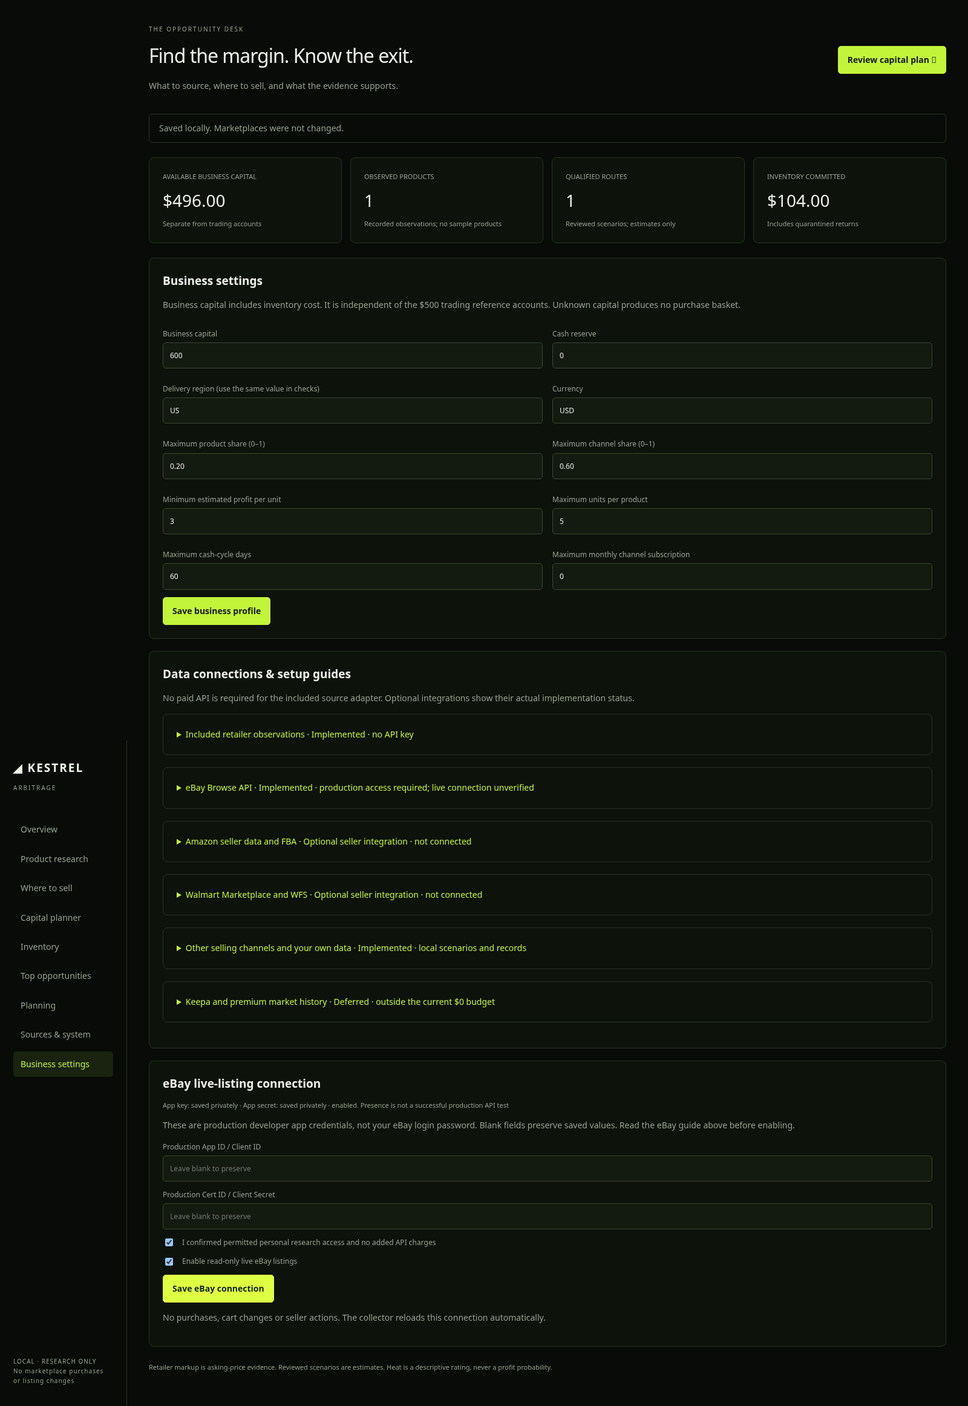
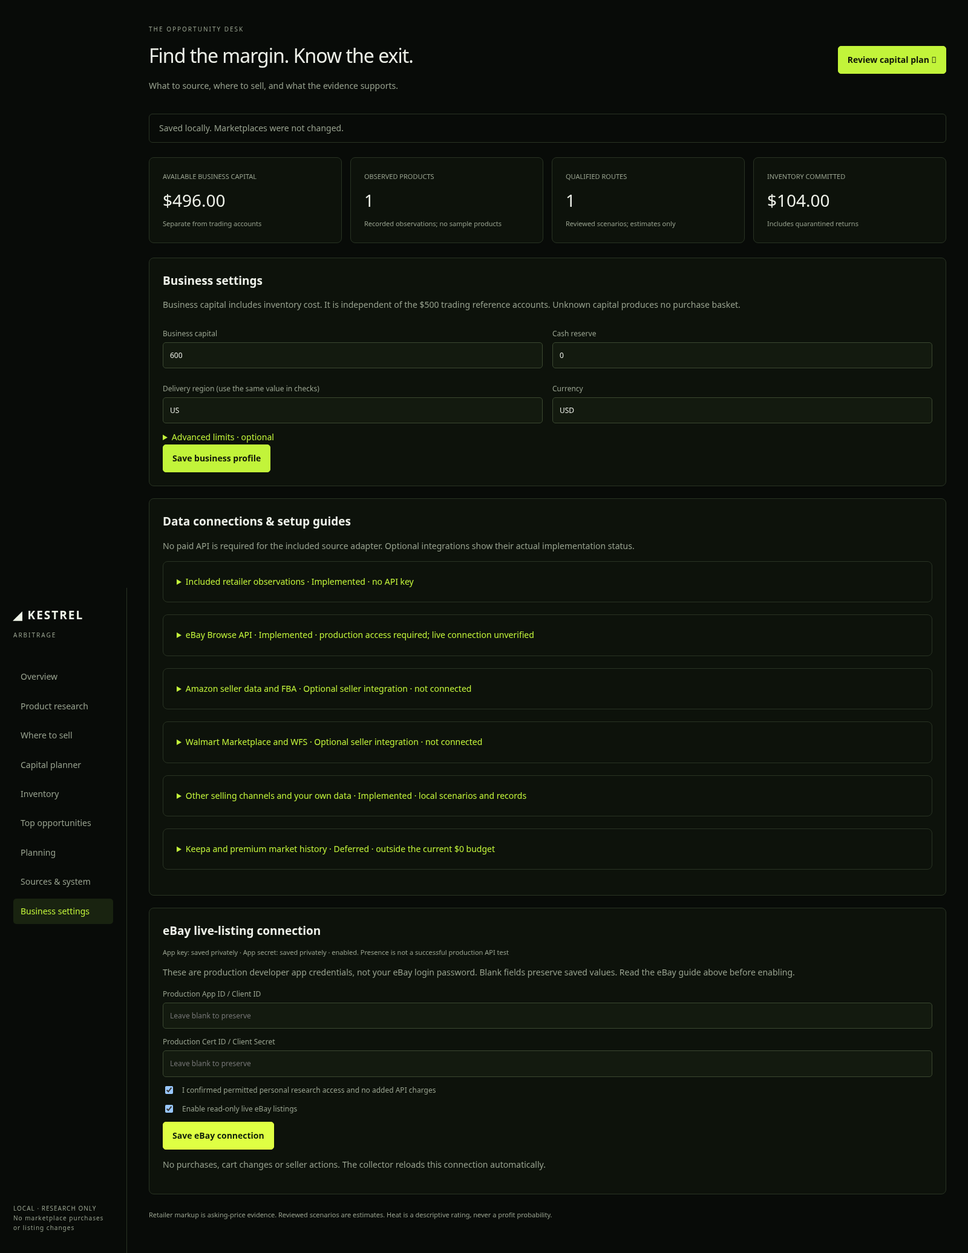
Make Arbitrage product-led with cards, photos, filters and sourcing workflow

diff --git a/src/desk/arbitrage/static/app.js b/src/desk/arbitrage/static/app.js
@@ -15,6 +15,14 @@ const money = (v, currency = state?.settings.currency || "USD") =>
         style: "currency",
         currency,
       }).format(Number(v));
+document.addEventListener("error", (event) => {
+  if (event.target instanceof HTMLImageElement && event.target.closest(".product-photo")) {
+    const fallback = document.createElement("span");
+    fallback.className = "no-photo";
+    fallback.textContent = "Source photo unavailable";
+    event.target.replaceWith(fallback);
+  }
+}, true);
 let state = null,
   csrf = "",
   editing = false,
@@ -128,14 +136,13 @@ function status() {
 function board(rows, qualified = false) {
   if (!rows.length)
     return `<div class="empty"><h3>${qualified ? "No qualified routes yet" : "Waiting for the first real observation"}</h3><p>${qualified ? "Product match, delivery availability, seller eligibility and complete costs must pass before an item enters this list." : "The read-only source adapter starts automatically. Network or retailer restrictions appear in Sources & system. You can also record a real observation there."}</p><a href="#sources">Inspect sources ↗</a></div>`;
-  return `<div class="table-wrap"><table><thead><tr><th>PRODUCT / SOURCE</th><th>HEAT PROFILE</th><th>SELLING ROUTE</th><th>NET / UNIT</th></tr></thead><tbody>${rows
-    .slice(0, 100)
-    .map((b) => {
-      const o = b.offers[0],
-        r = b.routes[0];
-      return `<tr><td><a href="#product/${esc(b.product.id)}"><strong>${esc(b.product.title)}</strong></a><span class="meta">${esc(b.product.category)} · ${b.product.identity_confirmed ? "Identity reviewed" : "Identity unconfirmed"}</span><br>${o ? external(o.url, "Source") + " · " + esc(money(o.price, o.currency)) + '<br><span class="meta">' + esc(availability(o)) + " · " + esc(o.at) + "</span>" : "No offer"}</td><td>${b.heat.length ? b.heat.map((m) => `<span class="badge">${esc(m.kind)} · ${esc(m.rating)}</span><br>`).join("") : '<span class="badge">VOLUME · UNKNOWN</span><br><span class="badge">POPULARITY · UNKNOWN</span>'}<span class="badge">SELL-THROUGH · UNKNOWN</span></td><td>${r ? esc(r.channel) + '<br><span class="meta">' + esc(r.fulfillment) + '</span><br><span class="' + (r.qualifies ? "good" : "warn") + '">' + (r.qualifies ? "Reviewed scenario" : esc(r.blockers[0])) + "</span>" : "No selling scenario recorded"}</td><td>${r ? esc(money(r.net_profit)) : "—"}<br><span class="meta">${r ? "Stress " + esc(money(r.stress_profit)) : "Costs and selling price needed"}</span></td></tr>`;
-    })
-    .join("")}</tbody></table></div>`;
+  return `<div class="deal-grid">${rows.slice(0, 100).map((b) => {
+    const o = b.offers[0], r = b.routes[0], p = b.product;
+    const image = p.image_url && /^https:\/\//.test(p.image_url)
+      ? `<img src="${esc(p.image_url)}" alt="${esc(p.title)}" loading="lazy" referrerpolicy="no-referrer">` : `<span class="no-photo">No source photo yet</span>`;
+    const fresh = o && !availability(o).startsWith("STALE") && o.availability !== "UNAVAILABLE";
+    return `<article class="deal-card"><a class="product-photo" href="#product/${esc(p.id)}">${image}</a><div class="deal-body"><span class="eyebrow">${esc(p.category)} · ${esc(p.condition)}</span><h3><a href="#product/${esc(p.id)}">${esc(p.title)}</a></h3><div class="deal-price">${o ? esc(money(o.price, o.currency)) : "Price unavailable"}<span>source asking price</span></div><span class="badge ${fresh ? "good" : "warn"}">${o ? esc(availability(o)) : "No offer"}</span><dl class="deal-metrics"><div><dt>Sell on</dt><dd>${r ? esc(r.channel) : "Compare destinations"}</dd></div><div><dt>Estimated net / unit</dt><dd>${r ? esc(money(r.net_profit)) : "Needs costs"}</dd></div><div><dt>Stress net / unit</dt><dd>${r ? esc(money(r.stress_profit)) : "Unknown"}</dd></div><div><dt>Demand evidence</dt><dd>${b.heat.length ? esc(b.heat[0].rating) : "Not connected"}</dd></div></dl><p class="next-step">${!p.identity_confirmed ? "Next: check exact model, pack and condition." : !r ? "Next: compare a selling destination and costs." : r.qualifies ? "Ready for a fresh delivery and price check." : esc(r.blockers[0] || "Review scenario")}</p><div class="toolbar"><a class="button" href="#product/${esc(p.id)}">Research item</a>${o ? external(o.url, "Check source") : ""}</div><span class="caption">${o ? "Observed " + esc(new Date(o.at).toLocaleString()) : "No dated observation"} · Not reserved</span></div></article>`;
+  }).join("")}</div>`;
 }
 function render() {
   status();
@@ -150,17 +157,15 @@ function render() {
     const rows = state.board.filter(
       (b) => !qualified || b.routes.some((r) => r.qualifies),
     );
-    el.innerHTML = `<div class="grid"><section class="panel"><h2>${qualified ? "Top opportunities · up to 100" : route === "research" ? "Product research" : "Opportunities with a destination"}</h2><p class="caption">${qualified ? "Qualified reviewed scenarios only. Empty positions are never padded." : "Retailer observations first. Unknown fields stay visible while research grows."}</p><div class="toolbar"><label>Category<select id="category"><option value="">All categories</option>${[...new Set(rows.map((b) => b.product.category))].map((c) => `<option>${esc(c)}</option>`).join("")}</select></label><button data-action="observation">Record real observation</button></div><div id="board">${board(rows, qualified)}</div></section><aside class="panel"><h2>Where to sell</h2><p>Compare any low-cost eligible destination using its own fees, fulfillment and payout timing.</p><a href="#profitability">Compare selling routes ↗</a><div class="line"><span>Estimated basket net</span><span class="good">${esc(money(state.basket.estimated_profit))}</span></div><div class="line"><span>Keep-cash alternative</span><span>${esc(money(state.basket.cash_available))}</span></div><p class="caption">${esc(state.coverage.scope)}</p><a href="#sources">Coverage & source health ↗</a></aside></div>`;
-    $("#category").onchange = (e) => {
-      $("#board").innerHTML = board(
-        rows
-          .filter(
-            (b) => !e.target.value || b.product.category === e.target.value,
-          )
-          .slice(0, e.target.value ? 10 : 100),
-        qualified,
-      );
+    el.innerHTML = `<div class="grid"><section class="panel"><h2>${qualified ? "Top opportunities · up to 100" : route === "research" ? "Product research" : "Your sourcing desk"}</h2><p class="caption">${qualified ? "Qualified reviewed scenarios only. Empty positions are never padded." : "Retailer observations first. Unknown fields stay visible while research grows."}</p><div class="toolbar"><label>Search products<input id="product-search" type="search" placeholder="Brand, model or product"></label><label>Show<select id="offer-filter"><option value="all">All research candidates</option><option value="fresh">Recent available listings</option><option value="qualified">Reviewed profitable scenarios</option></select></label><label>Category<select id="category"><option value="">All categories</option>${[...new Set(rows.map((b) => b.product.category))].map((c) => `<option>${esc(c)}</option>`).join("")}</select></label><button data-action="observation">Record real observation</button></div><div id="board">${board(rows, qualified)}</div></section><aside class="panel"><h2>Find → compare → sell</h2><ol class="checks"><li><a href="#sources">Choose your sourcing searches</a></li><li>Open an item and check its exact model.</li><li>Compare selling destinations after costs.</li><li>Recheck stock before committing cash.</li></ol><h3>Where to sell</h3><p>Compare any low-cost eligible destination using its own fees, fulfillment and payout timing.</p><a href="#profitability">Compare selling routes ↗</a><div class="line"><span>Estimated basket net</span><span class="good">${esc(money(state.basket.estimated_profit))}</span></div><div class="line"><span>Keep-cash alternative</span><span>${esc(money(state.basket.cash_available))}</span></div><p class="caption">${esc(state.coverage.scope)}</p><a href="#sources">Coverage & source health ↗</a></aside></div>`;
+    const filterBoard = () => {
+      const q = $("#product-search").value.toLowerCase().trim(), category = $("#category").value, mode = $("#offer-filter").value;
+      const filtered = rows.filter(b => (!category || b.product.category === category) && b.product.title.toLowerCase().includes(q) && (mode !== "qualified" || b.routes.some(r => r.qualifies)) && (mode !== "fresh" || b.offers.some(o => !availability(o).startsWith("STALE") && ["DECLARED_AVAILABLE", "VERIFIED_AVAILABLE"].includes(o.availability))));
+      $("#board").innerHTML = filtered.length ? board(filtered, qualified) : '<div class="empty">No items match these filters. Try another search or broaden your sources.</div>';
     };
+    $("#category").onchange = filterBoard;
+    $("#offer-filter").onchange = filterBoard;
+    $("#product-search").oninput = filterBoard;
   } else if (route === "product") {
     const b = state.board.find((x) => x.product.id === id);
     if (!b) {
@@ -188,7 +193,7 @@ function render() {
   } else if (route === "inventory" || route === "planning") {
     el.innerHTML = `<section class="panel"><h2>${route === "planning" ? "Planning & inventory aging" : "Inventory · append-only lots"}</h2><p>Receive stock with its total landed cost. Reserve units explicitly; release them before a sale. Returns stay quarantined until restocked. Sale amounts are net proceeds; return amounts are refunds.</p><button data-action="inventory">Record inventory event</button><div class="line"><span>Realized recorded profit</span><span>${esc(money(state.inventory.realized_profit))}</span></div><div class="table-wrap"><table><thead><tr><th>LOT / PRODUCT</th><th>AVAILABLE / RESERVED</th><th>QUARANTINED</th><th>COST / REALIZED</th><th>AGE</th></tr></thead><tbody>${state.inventory.lots.map((l) => `<tr><td>${esc(l.id)}<br>${esc(l.product_id)}</td><td>${l.available} / ${l.reserved}</td><td>${l.quarantined}</td><td>${esc(money(l.committed_cost))} / ${esc(money(l.realized_profit))}</td><td>${Math.max(0, Math.floor((Date.now() - Date.parse(l.received_at)) / 86400000))} days</td></tr>`).join("")}</tbody></table></div>${route === "planning" ? '<h3>Before committing capital</h3><ul class="checks"><li>Confirm exact variant, pack, condition, authenticity and acceptable supplier documents.</li><li>Check seller/category eligibility and shipping restrictions on the destination.</li><li>Recheck regional stock and delivered cost within five minutes of review.</li><li>Stress selling price, returns, holding time and all incremental fees.</li><li>Review aged and quarantined inventory before replenishment.</li></ul><p>No seasonality forecast is available without sufficient dated observations.</p>' : ""}</section>`;
   } else if (route === "sources") {
-    el.innerHTML = `<section class="panel"><h2>Sources & system</h2><p>V1 automatically watches a small reviewed source set. It does not scan every retailer or connect to marketplace seller accounts. No API subscription is needed for the included read-only adapter.</p><div class="toolbar"><button id="toggle">${state.settings.enabled ? "Pause collection" : "Resume collection"}</button><button data-action="source">Add supported product URL</button><button data-action="ebay-source">Add eBay search</button><button data-action="observation">Record real observation</button><button data-action="signal">Import evidence</button></div>${state.sources
+    el.innerHTML = `<section class="panel"><h2>Find your next product</h2><p>Start with a product or model. Connected searches collect automatically; the discovery links below open external sites and do not import their results.</p><form id="discovery-form"><label>What do you want to source?<input id="discovery-query" type="search" placeholder="e.g. LEGO 75375 or DeWalt DCD800" required maxlength="100"></label><button class="primary">Find sourcing and resale searches</button></form><div id="discovery-links"></div><h3>Your automatic monitors</h3><p>V1 automatically watches a small reviewed source set. It does not scan every retailer or connect to marketplace seller accounts. No API subscription is needed for the included read-only adapter.</p><div class="toolbar"><button id="toggle">${state.settings.enabled ? "Pause collection" : "Resume collection"}</button><button data-action="source">Add supported product URL</button><button data-action="ebay-source">Add eBay search</button><button data-action="observation">Record real observation</button><button data-action="signal">Import evidence</button></div>${state.sources
       .map((s) => {
         const j = state.jobs[s.id] || {};
         return `<div class="line"><div>${external(s.url, s.id)} ${esc(s.query || "")}<br><span class="caption">${esc(j.status || "Waiting for first attempt")} · last success ${esc(j.last_ok_at || "None")}<br>${esc(j.error || "")}${j.retry_at ? "<br>Next retry after " + esc(j.retry_at) : ""}</span></div><span><span class="badge">${esc(s.adapter)}</span><button data-action="source-toggle" data-id="${esc(s.id)}">${s.enabled ? "Pause source" : "Resume source"}</button></span></div>`;
@@ -196,6 +201,19 @@ function render() {
       .join(
         "",
       )}<h3>Coverage gaps</h3><p>Automatic completed-sales, broad retailer discovery, Amazon FBA/Walmart WFS fee estimates and marketplace eligibility checks are not connected. Enter reviewed scenarios and your own evidence locally; never paste private API credentials into chat.</p><p>FBA means Amazon stores, packs and ships your inventory for fees. WFS is Walmart’s fulfillment service. These services require separate seller eligibility and item-specific costs.</p><p class="caption">Asking-price retention: up to 90 days / 100,000 observations; eBay API listing cache is capped at 24 hours pending a fuller licensing review. Inventory events remain append-only. Ratings require a comparable channel/metric cohort and sufficient dated evidence.</p><a href="/api/capabilities" target="_blank" rel="noopener">Machine-readable capabilities & contracts ↗</a></section>`;
+    $("#discovery-form").onsubmit = e => {
+      e.preventDefault();
+      const q = encodeURIComponent($("#discovery-query").value.trim());
+      const links = [
+        ["Google Shopping", "https://www.google.com/search?tbm=shop&q=" + q, "Compare advertised offers; stock and shipping vary."],
+        ["Slickdeals", "https://slickdeals.net/newsearch.php?q=" + q, "Community deal leads; posts may be expired."],
+        ["Walmart", "https://www.walmart.com/search?q=" + q, "Retail and marketplace offers; check seller and exact pack."],
+        ["Target", "https://www.target.com/s?searchTerm=" + q, "Retail search; local availability varies."],
+        ["eBay sold listings", "https://www.ebay.com/sch/i.html?_nkw=" + q + "&LH_Sold=1&LH_Complete=1", "Manual comparable research; accepted-offer prices may be hidden."],
+        ["Amazon", "https://www.amazon.com/s?k=" + q, "Compare listing prices; these are not confirmed sales."],
+      ];
+      $("#discovery-links").innerHTML = '<div class="source-grid">' + links.map(([name, url, note]) => `<article class="panel"><h3>${external(url, name)}</h3><span class="badge">External research · not an automatic feed</span><p>${esc(note)}</p></article>`).join("") + '</div><p>Found a candidate? Use Record real observation below. Only eBay searches and supported retailer URLs are monitored automatically.</p>';
+    };
     $("#toggle").onclick = async () => {
       await save("/api/settings", {
         ...state.settings,
@@ -204,7 +222,7 @@ function render() {
     };
   } else if (route === "settings") {
     const s = state.settings;
-    el.innerHTML = `<section class="panel"><h2>Business settings</h2><p>Business capital includes inventory cost. It is independent of the $500 trading reference accounts. Unknown capital produces no purchase basket.</p><form id="settings-form"><div class="form-grid">${field("capital", "Business capital", "number", s.capital ?? "", false)}${field("reserve", "Cash reserve", "number", s.reserve)}${field("region", "Delivery region (use the same value in checks)", "text", s.region)}${field("currency", "Currency", "text", s.currency)}${field("max_product_fraction", "Maximum product share (0–1)", "number", s.max_product_fraction)}${field("max_channel_fraction", "Maximum channel share (0–1)", "number", s.max_channel_fraction)}${field("min_profit", "Minimum estimated profit per unit", "number", s.min_profit)}${field("max_units", "Maximum units per product", "number", s.max_units)}${field("max_days", "Maximum cash-cycle days", "number", s.max_days)}${field("max_monthly_cost", "Maximum monthly channel subscription", "number", s.max_monthly_cost)}</div><button class="primary">Save business profile</button></form></section>`;
+    el.innerHTML = `<section class="panel"><h2>Business settings</h2><p>Business capital includes inventory cost. It is independent of the $500 trading reference accounts. Unknown capital produces no purchase basket.</p><form id="settings-form"><div class="form-grid">${field("capital", "Business capital", "number", s.capital ?? "", false)}${field("reserve", "Cash reserve", "number", s.reserve)}${field("region", "Delivery region (use the same value in checks)", "text", s.region)}${field("currency", "Currency", "text", s.currency)}</div><details><summary>Advanced limits · optional</summary><p>Defaults limit any one product to 20% of capital, any one selling channel to 60%, and orders to five units per product. Change these only to fit your business.</p><div class="form-grid">${field("max_product_fraction", "Maximum product share (0–1)", "number", s.max_product_fraction)}${field("max_channel_fraction", "Maximum channel share (0–1)", "number", s.max_channel_fraction)}${field("min_profit", "Minimum estimated profit per unit", "number", s.min_profit)}${field("max_units", "Maximum units per product", "number", s.max_units)}${field("max_days", "Maximum cash-cycle days", "number", s.max_days)}${field("max_monthly_cost", "Maximum monthly channel subscription", "number", s.max_monthly_cost)}</div></details><button class="primary">Save business profile</button></form></section>`;
     el.insertAdjacentHTML(
       "beforeend",
       `<section class="panel"><h2>Data connections & setup guides</h2><p>No paid API is required for the included source adapter. Optional integrations show their actual implementation status.</p>${setupGuides.map((g) => `<details class="panel"><summary>${esc(g.title)} · ${esc(g.status)}</summary><p>${esc(g.purpose)}</p><div class="toolbar">${g.links.map((l) => external(l.url, l.label)).join(" · ")}</div><ol>${g.steps.map((step) => `<li>${esc(step)}</li>`).join("")}</ol><p class="warn">${esc(g.cost)}</p><p class="caption">${esc(g.limitation)}</p></details>`).join("")}</section>`,
@@ -459,7 +477,7 @@ window.addEventListener("hashchange", () => {
   }
 })();
 setInterval(() => {
-  if (!editing && !$("#settings-form") && !document.hidden)
+  if (!editing && !$("#settings-form") && !$("#product-search")?.matches(":focus") && !document.hidden)
     reload().catch((e) => notice("Dashboard unavailable: " + e.message, true));
 }, 10000);
 

diff --git a/src/desk/arbitrage/static/style.css b/src/desk/arbitrage/static/style.css
@@ -380,3 +380,24 @@ summary {
     padding: 16px;
   }
 }
+/* Product-led sourcing workspace. */
+.deal-grid {display:grid;grid-template-columns:repeat(auto-fill,minmax(min(100%,250px),1fr));gap:18px}
+.deal-card {border:1px solid var(--line);border-radius:14px;overflow:hidden;background:#11180f;min-width:0;transition:border-color .2s,transform .2s}
+.deal-card:hover {border-color:#78904e;transform:translateY(-2px)}
+.product-photo {display:flex;align-items:center;justify-content:center;height:200px;background:#f4f5ef;color:#56634e;overflow:hidden}
+.product-photo img {height:100%;width:100%;object-fit:contain;padding:16px}
+.no-photo {font-size:12px}
+.deal-body {padding:18px}
+.deal-body h3 {min-height:48px;margin:10px 0;font-size:16px;line-height:1.5;overflow-wrap:anywhere}
+.deal-body h3 a {color:#edf0e8}
+.deal-price {font-size:27px;font-weight:650;letter-spacing:-.8px}
+.deal-price span {display:block;font-size:11px;font-weight:400;letter-spacing:0;color:var(--muted)}
+.deal-metrics {display:grid;grid-template-columns:1fr 1fr;gap:12px;border-top:1px solid var(--line);padding-top:14px}
+.deal-metrics dt {font-size:11px;color:var(--muted)}
+.deal-metrics dd {margin:4px 0;font-weight:550;overflow-wrap:anywhere}
+.next-step {font-size:12px;min-height:38px;color:var(--amber)}
+.deal-card .toolbar {gap:10px;font-size:12px}
+.source-grid {display:grid;grid-template-columns:repeat(auto-fit,minmax(min(100%,250px),1fr));gap:14px;margin-top:20px}
+.source-grid .panel {margin:0}
+a:focus-visible,button:focus-visible,input:focus-visible,select:focus-visible,summary:focus-visible {outline:2px solid var(--green);outline-offset:4px}
+@media(prefers-reduced-motion:reduce){.deal-card{transition:none}.deal-card:hover{transform:none}}

diff --git a/src/desk/arbitrage/ebay.py b/src/desk/arbitrage/ebay.py
@@ -55,6 +55,20 @@ async def response_json(response: httpx.Response) -> dict[str, Any]:
     return data
 
 
+def listing_image(row: dict[str, Any]) -> str | None:
+    """Only provider-owned HTTPS image hosts; a bad thumbnail must not discard an offer."""
+    image = row.get("image")
+    url = image.get("imageUrl") if isinstance(image, dict) else None
+    if not isinstance(url, str):
+        return None
+    parsed = urlsplit(url)
+    if (parsed.scheme == "https" and parsed.hostname in {"i.ebayimg.com", "i.ebaystatic.com"}
+            and not parsed.username and not parsed.password and parsed.port in (None, 443)
+            and not parsed.fragment and len(url) <= 1000):
+        return url
+    return None
+
+
 def parse(data: dict[str, Any], source: Source, now: datetime) -> list[Observation]:
     if data.get("errors") or ("itemSummaries" not in data and data.get("total") != 0):
         raise DeskError("eBay search returned errors or an incomplete result; no successful empty result assumed")
@@ -80,6 +94,7 @@ def parse(data: dict[str, Any], source: Source, now: datetime) -> list[Observati
                 title=str(row["title"]),
                 category="Uncategorized",
                 condition=str(row.get("condition") or "Unknown"),
+                image_url=listing_image(row),
             )
             output.append(
                 Observation(

diff --git a/tests/unit/test_arbitrage_ebay.py b/tests/unit/test_arbitrage_ebay.py
@@ -193,3 +193,22 @@ def test_private_settings_save_needs_no_terminal_stop_and_echoes_no_values(paths
         assert sum(s["adapter"] == "ebay_browse" for s in body["sources"]) == 3
         assert client.post("/api/integrations/ebay", json={"enabled": False}, headers=headers).status_code == 200
         assert load(paths).client_id == "SYNTHETIC_CLIENT_ID"
+
+
+def test_listing_photos_are_provider_owned_and_optional() -> None:
+    from desk.arbitrage.ebay import listing_image
+
+    assert listing_image({"image": {"imageUrl": "https://i.ebayimg.com/images/g/example/s-l225.jpg"}})
+    for value in ("https://evil.example/tracker", "javascript:alert(1)", "https://i.ebayimg.com@evil.example/x"):
+        assert listing_image({"image": {"imageUrl": value}}) is None
+    assert listing_image({"image": "malformed"}) is None
+    assert listing_image({}) is None
+
+
+def test_old_product_records_remain_readable_with_optional_photo() -> None:
+    from desk.arbitrage.contracts import Product
+
+    old = Product.model_validate({"id": "old", "title": "Existing product"})
+    assert old.image_url is None
+    with pytest.raises(ValueError):
+        Product(id="bad", title="Bad photo", image_url="javascript:alert(1)")

diff --git a/src/desk/arbitrage/contracts.py b/src/desk/arbitrage/contracts.py
@@ -60,6 +60,12 @@ class Product(Record):
     pack_count: int | None = Field(default=None, ge=1, le=10000)
     condition: str = Field(default="new", max_length=50)
     identity_confirmed: bool = False
+    image_url: str | None = Field(default=None, max_length=1000)
+
+    @field_validator("image_url")
+    @classmethod
+    def validate_image(cls, value: str | None) -> str | None:
+        return public_url(value) if value else None
 
     @field_validator("gtin")
     @classmethod

diff --git a/research/arbitrage/HANDOFF.md b/research/arbitrage/HANDOFF.md
@@ -64,3 +64,19 @@ or optimizer before forward evaluation. Do not promote a heat score to a probabi
 `docs/ARBITRAGE.md`, `FEASIBILITY.md`, `IMPLEMENTATION.md`, `FAULT_REGISTRY.md`, `BUILD_STATUS.md`,
 `validation/browser-results.json`, `validation/resources-synthetic.json`; then the corresponding `src/desk/arbitrage`
 modules and `tests/unit/test_arbitrage*.py`. The consolidated `MASTER_PROMPT.md` remains the full target specification.
+
+## Product-led usability correction — 2026-10-22
+
+Operator feedback: the first release was too much an accounting console and too little a sourcing tool.
+First correction adds image-led cards (optional eBay-owned thumbnails; older records remain compatible),
+local title/category/availability filters, next-step cues, a find→compare→sell checklist, explicit source-search
+links, and progressive disclosure for advanced capital limits. Source links are manual research, NOT integrations.
+Google Shopping, Slickdeals, Walmart, Target, Amazon and eBay sold-search links do not create price, stock,
+completed-sale or demand evidence in the app. No automatic sourcing breadth improvement is claimed.
+
+The substantive unfinished requirement is still broader automatic discovery and exact-product cross-source
+matching with dated costs, stock and resale evidence. Do not present this visual correction as completing it.
+Cloud policy currently excludes retailer/eBay API hosts, and no production eBay credentials are available here.
+Photo loading is browser-side HTTPS, no-referrer and lazy; no server image proxy or credentialed request.
+Next: build supported structured imports/feeds and buyer-oriented destination comparison with account-specific
+fees; verify genuine live vertical slices on permitted sources. Keep manual work visible and minimize it.
